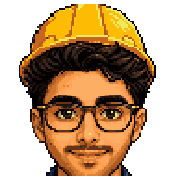
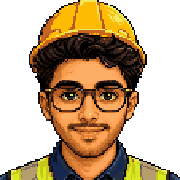
Fix the licence claim, lead with any-agent, redraw the mark, blueprint the card and the 404
The README said attribution was "appreciated, not required" while shipping
under MIT, which requires the copyright notice to travel with any copy. The
README was contradicting its own LICENSE. Corrected, and the ask for a
visible credit is now framed as the social favour it actually is rather
than as a legal position.

Framing. The portable badge leads and the Claude Code badge now reads "one
command", because that is the honest reason it is listed first. The install
section says so outright. Foreman is markdown; it was never Claude only.

Mark. Recropped to include neck and shoulders. The previous crop cut at the
jaw, which read as a floating head at small sizes.

OG card and 404 both get the drafting grid: a fine rule every 24px with a
heavier one every 120px, at 5 to 13 percent opacity. Present at a glance,
invisible up close. The 404 adds a torn sheet running off the right edge,
clipped mid drawing, which is the point of that page.

diff --git a/docs/404.html b/docs/404.html
@@ -64,6 +64,37 @@
   .rule { margin-top: 2.25rem; padding-top: .875rem; border-top: 1px solid var(--hair);
           font-family: var(--mono); font-size: .6875rem; letter-spacing: .1em;
           text-transform: uppercase; color: var(--muted); }
+
+  /* Drafting paper, same as the OG card. Barely visible, does the work. */
+  body::before {
+    content: ""; position: fixed; inset: 0; z-index: 0; pointer-events: none;
+    background-image:
+      linear-gradient(var(--gridB) 1px, transparent 1px),
+      linear-gradient(90deg, var(--gridB) 1px, transparent 1px),
+      linear-gradient(var(--gridA) 1px, transparent 1px),
+      linear-gradient(90deg, var(--gridA) 1px, transparent 1px);
+    background-size: 120px 120px, 120px 120px, 24px 24px, 24px 24px;
+  }
+  :root { --gridA: rgba(27,77,209,.055); --gridB: rgba(27,77,209,.13); }
+  :root[data-theme="dark"] { --gridA: rgba(127,168,220,.07); --gridB: rgba(127,168,220,.15); }
+
+  /* The sheet, torn. It runs off the right edge and stops mid-drawing, which is
+     the whole idea: you asked for a page that is not in the set. */
+  .torn {
+    position: fixed; z-index: 0; pointer-events: none;
+    right: 0; top: 50%; transform: translateY(-50%);
+    width: min(46vw, 30rem); opacity: .9;
+  }
+  .torn svg { display: block; width: 100%; height: auto; }
+  .torn .ln { stroke: var(--blue); fill: none; stroke-linecap: round; opacity: .75; }
+  .torn .frame { stroke: var(--ink); opacity: .55; }
+  .torn .edge { stroke: var(--ink); opacity: .4; stroke-dasharray: 2 5; }
+  main { position: relative; z-index: 1; }
+
+  @media (max-width: 52rem) { .torn { display: none; } }
+  /* Reserve the sheet's column so the text centres in what is left of the page
+     rather than running underneath the drawing. */
+  @media (min-width: 52.01rem) { body { padding-right: min(48vw, 33rem); } }
 </style>
 </head>
 <body>
@@ -76,6 +107,38 @@
     }
   } catch (e) {}
 </script>
+<div class="torn" aria-hidden="true">
+  <svg viewBox="0 0 400 340" fill="none">
+    <defs>
+      <filter id="rough" x="-6%" y="-6%" width="112%" height="112%">
+        <feTurbulence type="fractalNoise" baseFrequency="0.018" numOctaves="3" seed="9" result="n"/>
+        <feDisplacementMap in="SourceGraphic" in2="n" scale="2.4" xChannelSelector="R" yChannelSelector="G"/>
+      </filter>
+      <!-- everything past the tear is clipped away -->
+      <clipPath id="tear">
+        <path d="M0 0 H286 L272 32 L292 66 L268 104 L290 146 L266 188 L288 232 L270 274 L286 306 L272 340 H0 Z"/>
+      </clipPath>
+    </defs>
+
+    <g clip-path="url(#tear)">
+      <g filter="url(#rough)">
+        <path class="ln frame" stroke-width="2" d="M34 22 L360 18 L364 322 L32 326 Z"/>
+        <path class="ln" stroke-width="1.5" d="M34 60 C 130 62, 260 58, 360 57"/>
+        <path class="ln" stroke-width="1.7" d="M60 96 L214 94"/>
+        <path class="ln" stroke-width="1.7" d="M60 118 L268 116"/>
+        <path class="ln" stroke-width="1.7" d="M60 140 L172 139"/>
+        <path class="ln" stroke-width="1.7" d="M60 176 L146 176 L146 206 L60 206 Z"/>
+        <path class="ln" stroke-width="1.5" d="M60 244 L300 241"/>
+        <path class="ln" stroke-width="1.5" d="M60 266 L236 264"/>
+      </g>
+    </g>
+
+    <!-- the torn edge itself -->
+    <path class="ln edge" stroke-width="1.4"
+          d="M286 0 L272 32 L292 66 L268 104 L290 146 L266 188 L288 232 L270 274 L286 306 L272 340"/>
+  </svg>
+</div>
+
 <main>
   <span class="boxlbl">Error 404</span>
   <h1>That sheet isn't in the set.</h1>

diff --git a/docs/index.html b/docs/index.html
@@ -455,7 +455,7 @@
   <div class="wrap hero">
     <div class="cols">
       <div>
-        <span class="boxlbl">A build playbook · v1.3.0 · MIT</span>
+        <span class="boxlbl">A build playbook · any agent · v1.3.0 · MIT</span>
         <h1>Every good build starts as a drawing.</h1>
         <p class="sub">
           Foreman makes your agent do the drawing first: the interview, the decisions,

diff --git a/README.md b/README.md
@@ -1,10 +1,10 @@
 # Foreman
 
 **A build playbook for shipping real websites with coding agents.**
-Runs on any agent that reads a skill file. Markdown and templates only, nothing executes.
+Not tied to any one agent: it is a folder of markdown, so it runs on Claude Code, Cursor, Windsurf, Codex, Copilot, Gemini CLI, or a chat window with no skills support at all.
 
-[![Claude Code](https://img.shields.io/badge/Claude%20Code-plugin-D97757?style=flat&logo=claude&logoColor=white)](https://code.claude.com/docs/en/plugins)
-[![Agent Skill](https://img.shields.io/badge/Agent%20Skill-portable-1B4DD1?style=flat&logo=openai&logoColor=white)](AGENTS.md)
+[![Agent Skill](https://img.shields.io/badge/agent-any-1B4DD1?style=flat&logo=markdown&logoColor=white)](AGENTS.md)
+[![Claude Code](https://img.shields.io/badge/Claude%20Code-one%20command-D97757?style=flat&logo=claude&logoColor=white)](https://code.claude.com/docs/en/plugins)
 [![Phases](https://img.shields.io/badge/phases-7-1B4DD1?style=flat)](#what-is-in-the-box)
 [![References](https://img.shields.io/badge/references-9-1B4DD1?style=flat)](#what-is-in-the-box)
 [![Assets](https://img.shields.io/badge/assets-6-1B4DD1?style=flat)](#what-is-in-the-box)
@@ -32,7 +32,7 @@ You do not read Foreman. Your agent does.
 
 ## Install
 
-Foreman is one folder of markdown. There is nothing to compile and nothing to run, so it installs anywhere an agent can read files.
+Foreman is one folder of markdown. There is nothing to compile and nothing to run, so it installs anywhere an agent can read files. Claude Code is listed first only because it is the one that takes a single command, not because the playbook is built for it.
 
 **Claude Code.** Type both lines, in this order. The marketplace is named `alshuaibi`, so the install id is `foreman@alshuaibi`.
 
@@ -105,4 +105,6 @@ Built by **Turki Alshuaibi**, AI engineer. Everything in it came from shipping, 
 
 ## License
 
-MIT. Use it, fork it, teach with it. Attribution appreciated, not required.
+MIT. Use it, fork it, teach with it, ship client work with it.
+
+MIT does require attribution: the copyright notice travels with any copy or substantial portion. Beyond that legal minimum, if Foreman shaped a site you are proud of, a line in your README or a link in the post is the thing that actually helps. Credit costs you nothing and it is how a playbook finds the next person who needs it.
